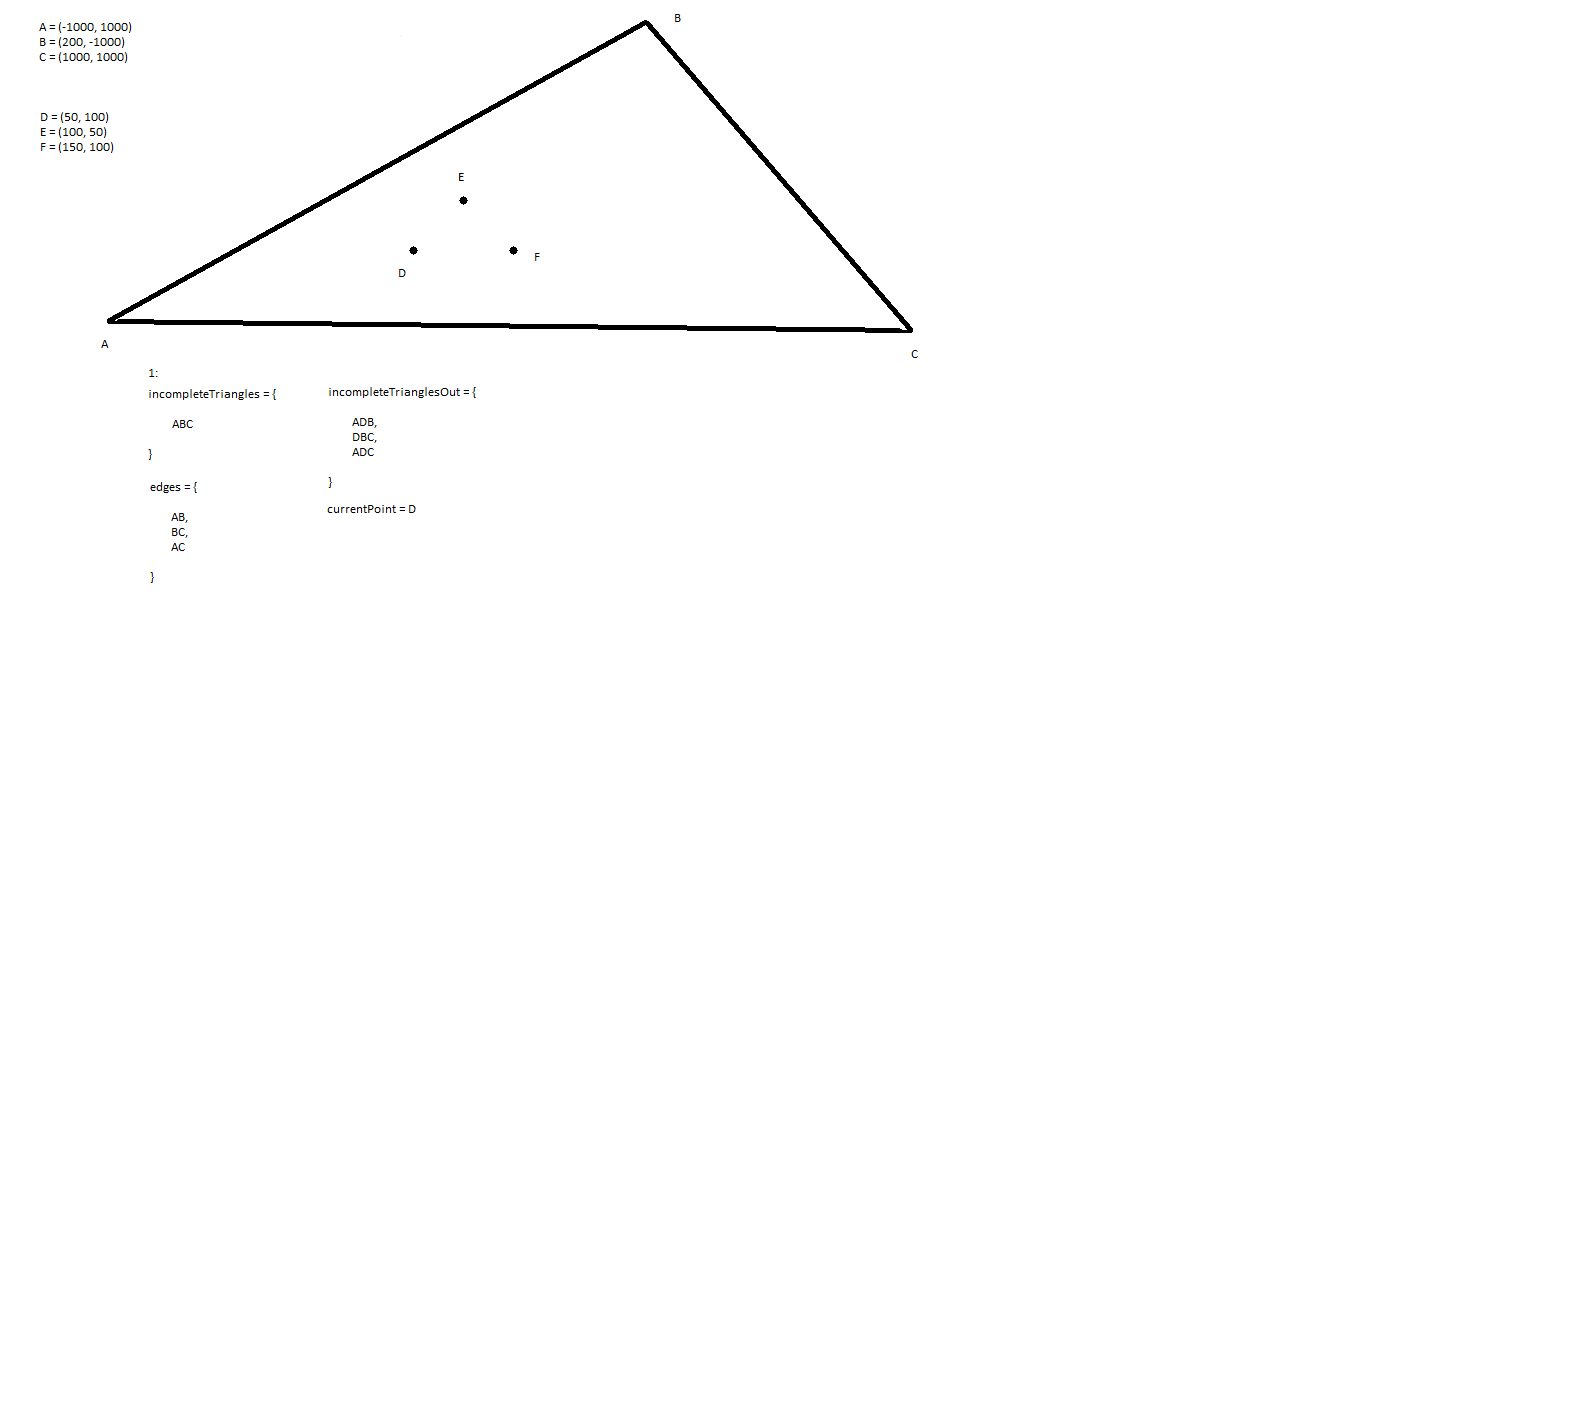
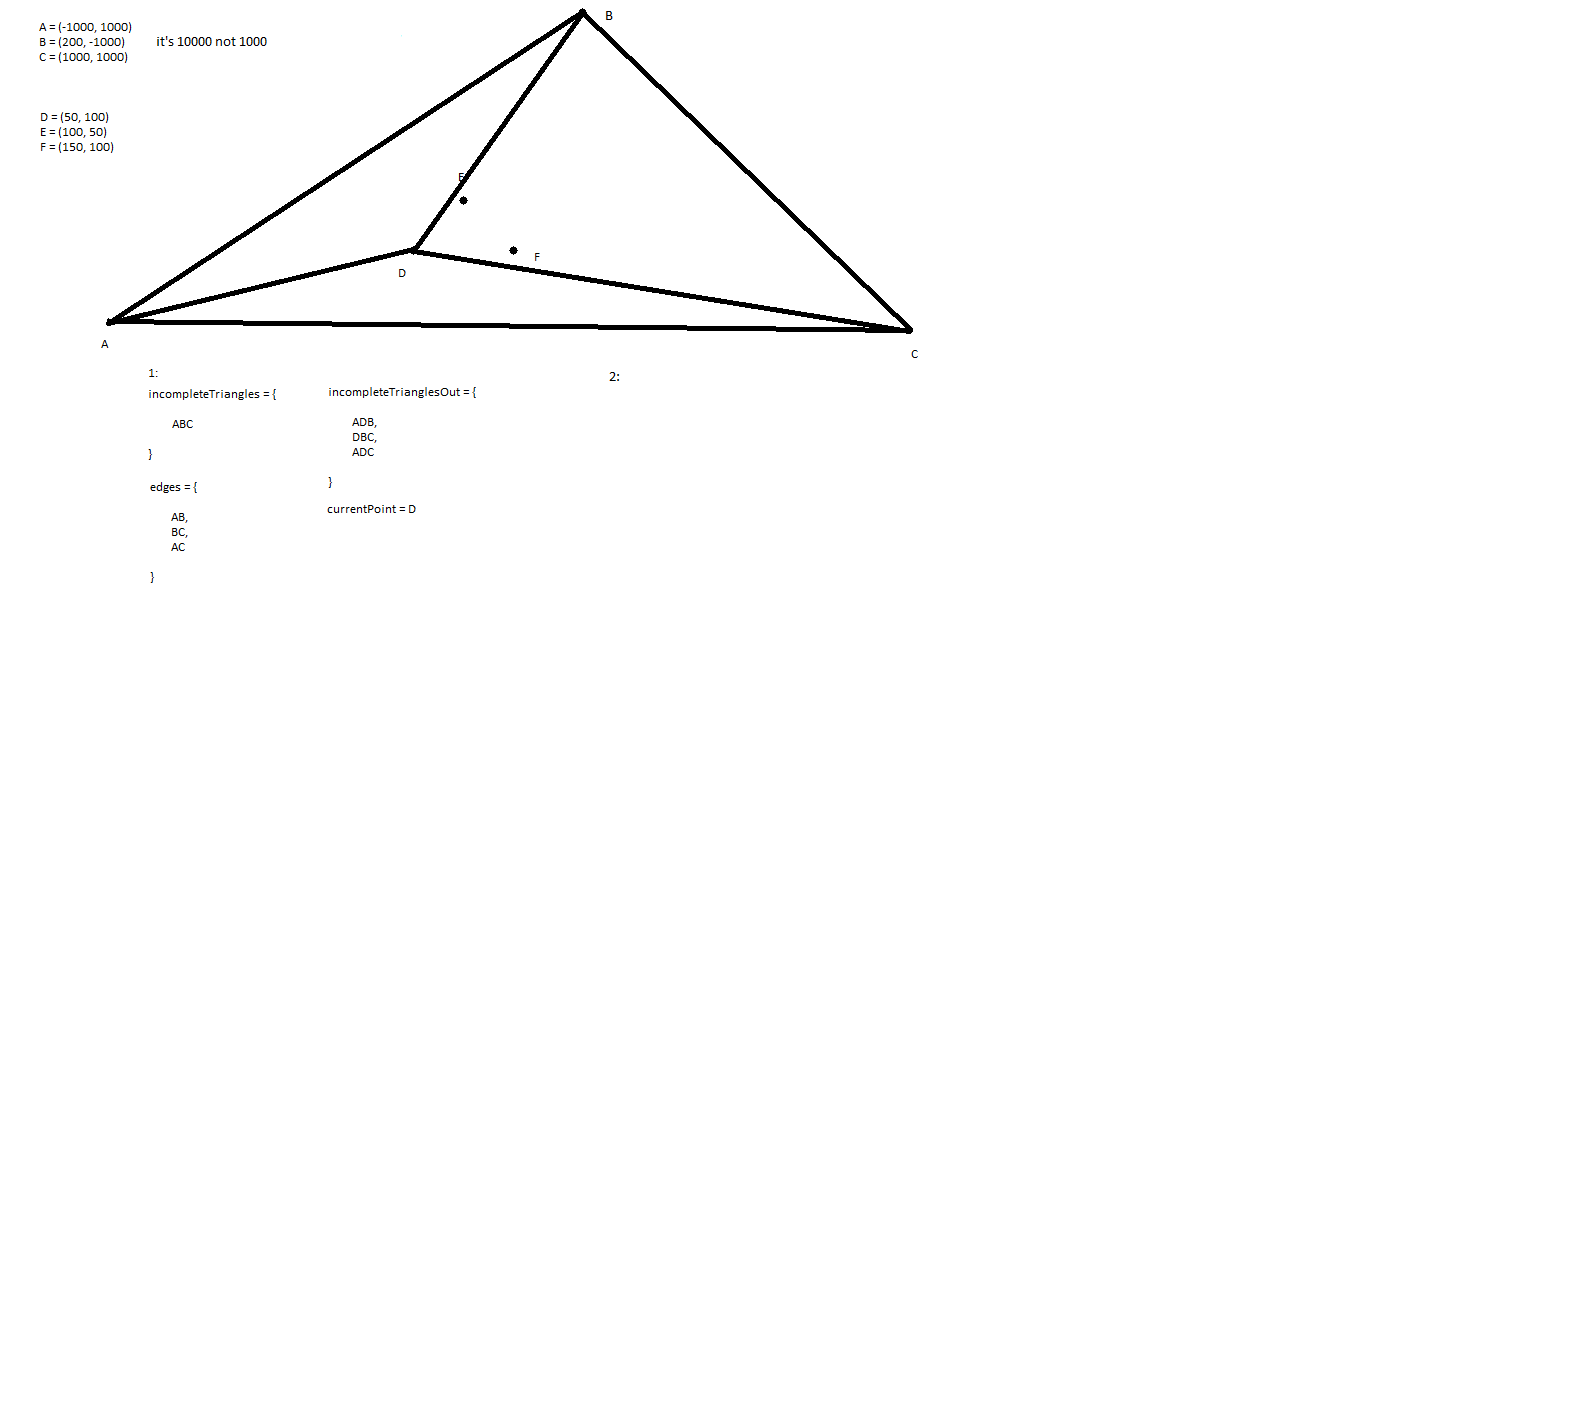
Data transfer

diff --git a/delaunayTriangulation/resources/js/main.js b/delaunayTriangulation/resources/js/main.js
@@ -72,6 +72,8 @@ class Triangle {
 
 	constructor(points, triangleColor = color(0, 0, 0)) {
 
+		console.log("--- TRIANGLE DEBUG ---");
+
 		// Sort the points in an ascending order according to their x coordinate
 
 		points.sort((a, b) => { return a.x - b.x; });
@@ -124,6 +126,15 @@ class Triangle {
 		// The radius is squared due to optimatization reasons
 
 		this.circumradiusSq = p5.Vector.sub(this.points[0], this.circumcenter).magSq();
+
+		console.log("Points: {");
+		console.log(`\tA: (${this.points[0].x}, ${this.points[0].y})`);
+		console.log(`\tB: (${this.points[1].x}, ${this.points[1].y})`);
+		console.log(`\tC: (${this.points[2].x}, ${this.points[2].y})`);
+		console.log("}");
+
+		console.log(`circumcenter: (${this.circumcenter.x}, ${this.circumcenter.y})`);
+		console.log(`circumradiusSq: ${this.circumradiusSq}`);
 
 	}
 
@@ -456,6 +467,16 @@ function triangulationHandler() {
 			// Thus this triangle's circumcircle cannot intersect any other
 			// point and won't be sub divided
 
+			/*console.log("--- EXPECTED ---");
+			console.log(`(${currentTriangle.circumcenter.x}, ${currentTriangle.circumcenter.y}) - (${currentPoint.x}, ${currentPoint.y}) = (${currentTriangle.circumcenter.x - currentPoint.x}, ${currentTriangle.circumcenter.y - currentPoint.y})`);
+			console.log(`(${currentTriangle.circumcenter.x - currentPoint.x})^2 + (${currentTriangle.circumcenter.y - currentPoint.y})^2 = ${p5.Vector.sub(currentTriangle.circumcenter, currentPoint).magSq()}`);
+			console.log("--- REALITY ---");
+			console.log(`${p5.Vector.sub(currentTriangle.circumcenter, currentPoint).magSq()}`);
+
+			console.log(`||A||: ${p5.Vector.sub(currentTriangle.circumcenter, currentTriangle.points[0]).mag()}`);
+			console.log(`||B||: ${p5.Vector.sub(currentTriangle.circumcenter, currentTriangle.points[1]).mag()}`);
+			console.log(`||C||: ${p5.Vector.sub(currentTriangle.circumcenter, currentTriangle.points[2]).mag()}`);*/
+
 			if (p5.Vector.sub(currentTriangle.circumcenter, currentPoint).magSq() > currentTriangle.circumradiusSq) { completeTriangles.push(currentTriangle); continue; }
 
 			edgesToDelete++;
@@ -538,6 +559,20 @@ function triangulationHandler() {
 			// Whenever I delete something in the array the elements will be shifted
 			// by 1 to the left this k will help with correcting this issue.
 
+			// DEBUG DEBUG DEBUG DEBUG DEBUG DEBUG DEBUG 
+
+			console.log("edgesBefore: {");
+
+			for (let j = 0; j < edges.length; j++) {
+
+				console.log(`\t(${edges[j][0].x}, ${edges[j][0].y}); (${edges[j][1].x}, ${edges[j][1].y})`);
+
+			}
+
+			console.log("}");
+
+			// DEBUG DEBUG DEBUG DEBUG DEBUG DEBUG DEBUG 
+
 			for (let k = 0; k < flagged.length; k++) {
 
 				// The removal of the second edge has to come before
@@ -554,8 +589,13 @@ function triangulationHandler() {
 				// [(a), b, c, e, f] - see? e and f index changed however
 				//		       a, b and c index remains the same
 
-				edges.splice(flagged[k][1] - k, 0);
-				edges.splice(flagged[k][0] - k, 0);
+				// the k is in the equation because when we delete the
+				// second duplicate from the edges array the whole array
+				// will be shifted. So after the first iteration the array
+				// will be shifted by one then two then three etc.
+
+				edges.splice(flagged[k][1] - k, 1);
+				edges.splice(flagged[k][0] - k, 1);
 
 			}
 		}
@@ -599,6 +639,47 @@ function triangulationHandler() {
 			]));
 
 		}
+
+		// DEBUG DEBUG DEBUG DEBUG DEBUG DEBUG DEBUG 
+
+		console.log("incompleteTrianglesOut: {");
+
+		let DEBUG_var2;
+
+		for (let j = 0; j < incompleteTriangles.length; j++) {
+
+			DEBUG_var2 = incompleteTriangles[j].points;
+
+			console.log(`\t1: (${DEBUG_var2[0].x}, ${DEBUG_var2[0].y})`);
+			console.log(`\t2: (${DEBUG_var2[1].x}, ${DEBUG_var2[1].y})`);
+			console.log(`\t3: (${DEBUG_var2[2].x}, ${DEBUG_var2[2].y})`);
+			console.log("-----");
+
+		}
+
+		console.log("}");
+
+		// DEBUG DEBUG DEBUG DEBUG DEBUG DEBUG DEBUG
+
+		console.log("complete: {");
+
+		let DEBUG_var3;
+
+		for (let j = 0; j < completeTriangles.length; j++) {
+
+			DEBUG_var3 = completeTriangles[j].points;
+
+			console.log(`\t1: (${DEBUG_var2[0].x}, ${DEBUG_var2[0].y})`);
+			console.log(`\t2: (${DEBUG_var2[1].x}, ${DEBUG_var2[1].y})`);
+			console.log(`\t3: (${DEBUG_var2[2].x}, ${DEBUG_var2[2].y})`);
+			console.log("-----");
+
+		}
+
+		console.log("}");
+
+		// DEBUG DEBUG DEBUG DEBUG DEBUG DEBUG DEBUG
+
 	}
 
 	// Now that we have looped through all of the points
